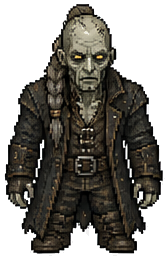
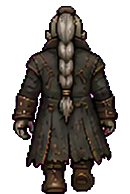
Walk cycle: forsaken_1 and orc_5 walk in four directions
tools/slice_walk_sheet.py cuts a walk sheet into walk_<dir>_<1|2|3>.png per character (left is
right mirrored) on one shared canvas, feet on the baseline and the body centred from the head and
shoulders so a stride doesn't jitter. The standing frames replace the copied front pose, so both
folders get real back and side views. The renderer plays 1-2-3-2, one frame per tile stepped,
and shows the standing frame after a pause; characters without walk frames are unchanged.

The orc shaman from the same sheet is held back: the staff didn't hold up. Walk sheets show empty
hands from now on.

Claude-Session: https://claude.ai/code/session_015TQrViPbuGDeiupTWSG9TT

diff --git a/tools/slice_walk_sheet.py b/tools/slice_walk_sheet.py
@@ -1,0 +1,117 @@
+#!/usr/bin/env python3
+"""Cut a walk-cycle sheet into per-character walk frames (claude/walk_cycle_prompts.md).
+
+    PYTHONPATH=. python3 tools/slice_walk_sheet.py SHEET tl=forsaken/forsaken_1 tr=orc/orc_5 [bl=..] [br=..]
+    PYTHONPATH=. python3 tools/slice_walk_sheet.py SHEET one=orc/orc_8        # a 3x3 sheet, one character
+    add --preview OUT.png to write a contact strip instead of touching assets/
+
+A 6x6 sheet holds four 3x3 blocks (tl, tr, bl, br); a 3x3 sheet holds one (one). Inside a block:
+row 1 walking down, row 2 walking up, row 3 walking right; column 1 left foot forward, column 2
+standing, column 3 right foot forward.
+
+Writes, into assets/npcs/<folder>/:
+  walk_<down|up|right|left>_<1|2|3>.png   (left is right, mirrored)
+  down.png / up.png / right.png / left.png = the standing frame (2) of each, so a folder that
+  had one front pose copied four times gets real back and side views too.
+
+Every frame of one character goes on the SAME canvas, feet on the bottom edge and the body's
+centre on the canvas centre. The game scales a sprite by its height, so a shared canvas is what
+keeps the character the same size in every frame and stops it jittering sideways mid-stride. The
+body's centre is taken from the head and shoulders, not the whole figure: a stride or a staff
+would drag a whole-figure centre about.
+"""
+import sys
+from pathlib import Path
+
+import numpy as np
+from PIL import Image
+
+ROOT = Path(__file__).resolve().parent.parent
+sys.path.insert(0, str(ROOT / "tools"))
+from slice_icon_sheet import key_magenta  # noqa: E402
+
+BLOCKS = {"tl": (0, 0), "tr": (0, 3), "bl": (3, 0), "br": (3, 3), "one": (0, 0)}
+ROWS = ("down", "up", "right")
+PAD = 4
+
+
+def _frames(rgba, grid, r0, c0):
+    """{(dir, n): RGBA array cropped to the figure, plus its body centre x and its feet y}."""
+    H, W = rgba.shape[:2]
+    ch, cw = H / grid, W / grid
+    out = {}
+    for i, d in enumerate(ROWS):
+        for j in range(3):
+            y0, x0 = int((r0 + i) * ch), int((c0 + j) * cw)
+            cell = rgba[y0:int(y0 + ch), x0:int(x0 + cw)]
+            a = cell[..., 3]
+            ys, xs = np.nonzero(a > 128)
+            if len(ys) < 50:
+                raise SystemExit(f"empty cell: block at row {r0} col {c0}, {d} frame {j + 1}")
+            top, bot = ys.min(), ys.max()
+            left, right = xs.min(), xs.max()
+            fig = cell[top:bot + 1, left:right + 1]
+            h = bot - top + 1
+            band = fig[int(h * 0.05):int(h * 0.35), :, 3]
+            cols = band.sum(axis=0)
+            cx = float((cols * np.arange(len(cols))).sum() / max(cols.sum(), 1))
+            out[(d, j + 1)] = (fig, cx)
+    return out
+
+
+def slice_block(rgba, grid, r0, c0):
+    frames = _frames(rgba, grid, r0, c0)
+    half = max(max(cx, f.shape[1] - cx) for f, cx in frames.values())
+    cw = int(np.ceil(half)) * 2 + PAD * 2
+    chh = max(f.shape[0] for f, _ in frames.values()) + PAD
+    imgs = {}
+    for (d, n), (f, cx) in frames.items():
+        canvas = np.zeros((chh, cw, 4), dtype=np.float64)
+        x = int(round(cw / 2 - cx))
+        y = chh - f.shape[0]
+        canvas[y:y + f.shape[0], x:x + f.shape[1]] = f
+        imgs[(d, n)] = Image.fromarray(np.clip(canvas, 0, 255).astype(np.uint8), "RGBA")
+    for n in (1, 2, 3):
+        imgs[("left", n)] = imgs[("right", n)].transpose(Image.FLIP_LEFT_RIGHT)
+    return imgs
+
+
+def main(argv):
+    preview = None
+    if "--preview" in argv:
+        k = argv.index("--preview")
+        preview = argv[k + 1]
+        argv = argv[:k] + argv[k + 2:]
+    sheet, jobs = argv[0], dict(a.split("=", 1) for a in argv[1:])
+    grid = 3 if "one" in jobs else 6
+    rgba = key_magenta(np.asarray(Image.open(sheet).convert("RGB")).astype(np.float64))
+    strips = []
+    for block, folder in jobs.items():
+        r0, c0 = BLOCKS[block]
+        imgs = slice_block(rgba, grid, r0, c0)
+        if preview:
+            strips.append(imgs)
+            continue
+        out = ROOT / "assets" / "npcs" / folder
+        if not out.is_dir():
+            raise SystemExit(f"no such sprite folder: {out}")
+        for (d, n), im in imgs.items():
+            im.save(out / f"walk_{d}_{n}.png")
+            if n == 2:
+                im.save(out / f"{d}.png")
+        print(f"{folder}: 12 walk frames, {imgs[('down', 2)].size[0]}x{imgs[('down', 2)].size[1]}")
+    if preview:
+        order = [(d, n) for d in ("down", "up", "right", "left") for n in (1, 2, 3)]
+        w = max(im.size[0] for s in strips for im in s.values())
+        h = max(im.size[1] for s in strips for im in s.values())
+        sheet_img = Image.new("RGBA", (w * len(order), h * len(strips)), (70, 70, 70, 255))
+        for r, s in enumerate(strips):
+            for c, key in enumerate(order):
+                im = s[key]
+                sheet_img.alpha_composite(im, (c * w + (w - im.size[0]) // 2, r * h + h - im.size[1]))
+        sheet_img.save(preview)
+        print("preview:", preview)
+
+
+if __name__ == "__main__":
+    main(sys.argv[1:])

diff --git a/ui/tilemap_renderer.py b/ui/tilemap_renderer.py
@@ -6,7 +6,7 @@ import os
 import pygame
 from world.tiles import get_tile_color
 from world.tile_textures import TILE_SIZE, get_biome_for_zone, get_texture_entry, get_subzone_biome
-from ui.sprite_loader import (get_tile_sprite, get_tile_sprite_smooth, get_landmark_sprite,
+from ui.sprite_loader import (get_walk_sprite, get_tile_sprite, get_tile_sprite_smooth, get_landmark_sprite,
                              get_feathered_chunk_sprite, get_npc_sprite, get_mount_sprite,
                              get_creature_sprite)
 from world.race_registry import sprite_base_path
@@ -370,6 +370,25 @@ class TilemapRenderer:
                     screen_x += viewport_rect.x
                     screen_y += viewport_rect.y
                     screen.blit(oriented_sprite, (screen_x, screen_y))
+
+    # Walk cycle (claude/walk_cycle_prompts.md). The player moves a tile at a time, so each step
+    # advances the cycle one frame: left foot, standing, right foot, standing. A pause longer than a
+    # held key's repeat shows the standing frame. Characters without walk frames keep their pose.
+    WALK_CYCLE = (1, 2, 3, 2)
+    WALK_IDLE_MS = 220
+
+    def _walk_frame(self, player_pos):
+        now = pygame.time.get_ticks()
+        last = getattr(self, "_walk_pos", None)
+        if last != player_pos:
+            if last is not None and player_pos is not None and \
+                    abs(last[0] - player_pos[0]) + abs(last[1] - player_pos[1]) == 1:
+                self._walk_step = getattr(self, "_walk_step", 0) + 1
+                self._walk_t = now
+            self._walk_pos = player_pos
+        if now - getattr(self, "_walk_t", -10**9) > self.WALK_IDLE_MS:
+            return 2
+        return self.WALK_CYCLE[(self._walk_step - 1) % 4]
 
     def render_tilemap(self, screen, tilemap, player_pos=None, camera=None, viewport_rect=None,
                         vendors=None, recruits=None, ambient_npcs=None, cave_spawns=None,
@@ -817,7 +836,11 @@ class TilemapRenderer:
                     getattr(player, "race", None), getattr(player, "gender", None),
                     getattr(player, "appearance_variant", 0))
                 if base_path:
-                    sprite = get_npc_sprite(base_path, player_facing, tile_height=int(self.tile_size * self.npc_sprite_scale))
+                    th = int(self.tile_size * self.npc_sprite_scale)
+                    frame = self._walk_frame(player_pos)
+                    sprite = get_walk_sprite(base_path, player_facing, frame, th) if frame else None
+                    if sprite is None:
+                        sprite = get_npc_sprite(base_path, player_facing, tile_height=th)
             mount_art = None
             try:
                 from world.travel_manager import get_travel_manager

diff --git a/ui/sprite_loader.py b/ui/sprite_loader.py
@@ -273,8 +273,25 @@ def get_npc_sprite(base_path, direction, tile_width=None, tile_height=None):
         return None
     if tile_width is None and tile_height is None:
         return None
+    return _npc_frame(f"{base_path}/{direction}.png", tile_width, tile_height)
 
-    sheet_path = f"{base_path}/{direction}.png"
+
+def get_walk_sprite(base_path, direction, frame, tile_height):
+    """One walk-cycle frame (walk_<direction>_<1|2|3>.png, cut by tools/slice_walk_sheet.py), scaled
+    like get_npc_sprite. None when this character has no walk frames, so the caller keeps the
+    standing pose."""
+    if not base_path or direction not in ("down", "left", "right", "up") or frame not in (1, 2, 3):
+        return None
+    path = f"{base_path}/walk_{direction}_{frame}.png"
+    key = ("walk_exists", path)
+    if key not in _sprite_cache:
+        _sprite_cache[key] = os.path.exists(path)
+    if not _sprite_cache[key]:
+        return None
+    return _npc_frame(path, None, tile_height)
+
+
+def _npc_frame(sheet_path, tile_width, tile_height):
     cache_key = ("npc", sheet_path, tile_width, tile_height)
     if cache_key in _sprite_cache:
         return _sprite_cache[cache_key]
